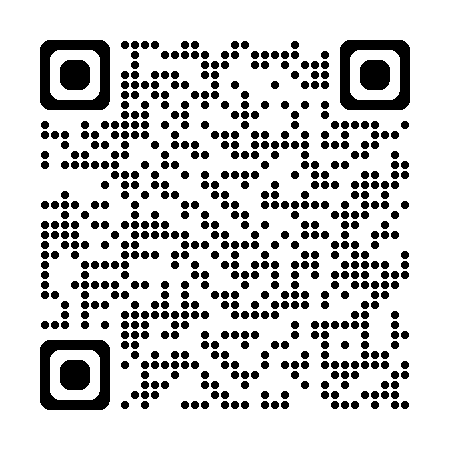
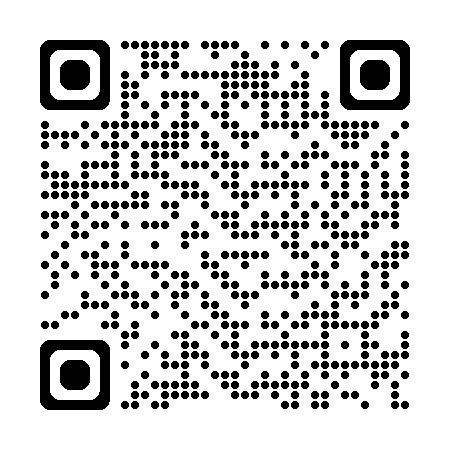
update

diff --git a/index.html b/index.html
@@ -604,7 +604,7 @@
                 <h3>MG2（開発中）<span class="directx_tag tag">DirectX</span><span class="cpp_tag tag">C++</span></h3>
                 <div class="contents">
                     <div>
-                        <iframe src="https://www.youtube.com/embed/5FTcXXSfiC4?si=AtzRl-olyMIdfJcU" title="YouTube video player" frameborder="0" allow="accelerometer; autoplay; clipboard-write; encrypted-media; gyroscope; picture-in-picture; web-share" referrerpolicy="strict-origin-when-cross-origin" allowfullscreen></iframe>
+                        <iframe src="https://www.youtube.com/embed/53yHbu8jmB0?si=gIY77z3h8tHjn6fC" title="YouTube video player" frameborder="0" allow="accelerometer; autoplay; clipboard-write; encrypted-media; gyroscope; picture-in-picture; web-share" referrerpolicy="strict-origin-when-cross-origin" allowfullscreen></iframe>
                         <ul class="alt_images gallery">
                             <li style="grid-column: 1 / span 3;">
                                 <a href="mg2_1.png" data-pswp-width="1600" data-pswp-height="900">
@@ -637,10 +637,10 @@
                             <dt>ソース／実行ファイル／ライセンス情報</dt>
                             <dd><a target="_blank" href="https://github.com/NgaiManChun/MG2">https://github.com/NgaiManChun/MG2</a></dd>
                             <dt>デモ動画</dt>
-                            <dd><a target="_blank" href="https://youtu.be/5FTcXXSfiC4">https://youtu.be/5FTcXXSfiC4</a></dd>
+                            <dd><a target="_blank" href="https://youtu.be/53yHbu8jmB0">https://youtu.be/53yHbu8jmB0</a></dd>
                         </dl>
                         <div class="trailer_qr">
-                            <a target="_blank" href="https://youtu.be/5FTcXXSfiC4"><img src="mg2_qr.png" /></a>
+                            <a target="_blank" href="https://youtu.be/53yHbu8jmB0"><img src="mg2_qr.png" /></a>
                         </div>
                     </div>
                     <div>
